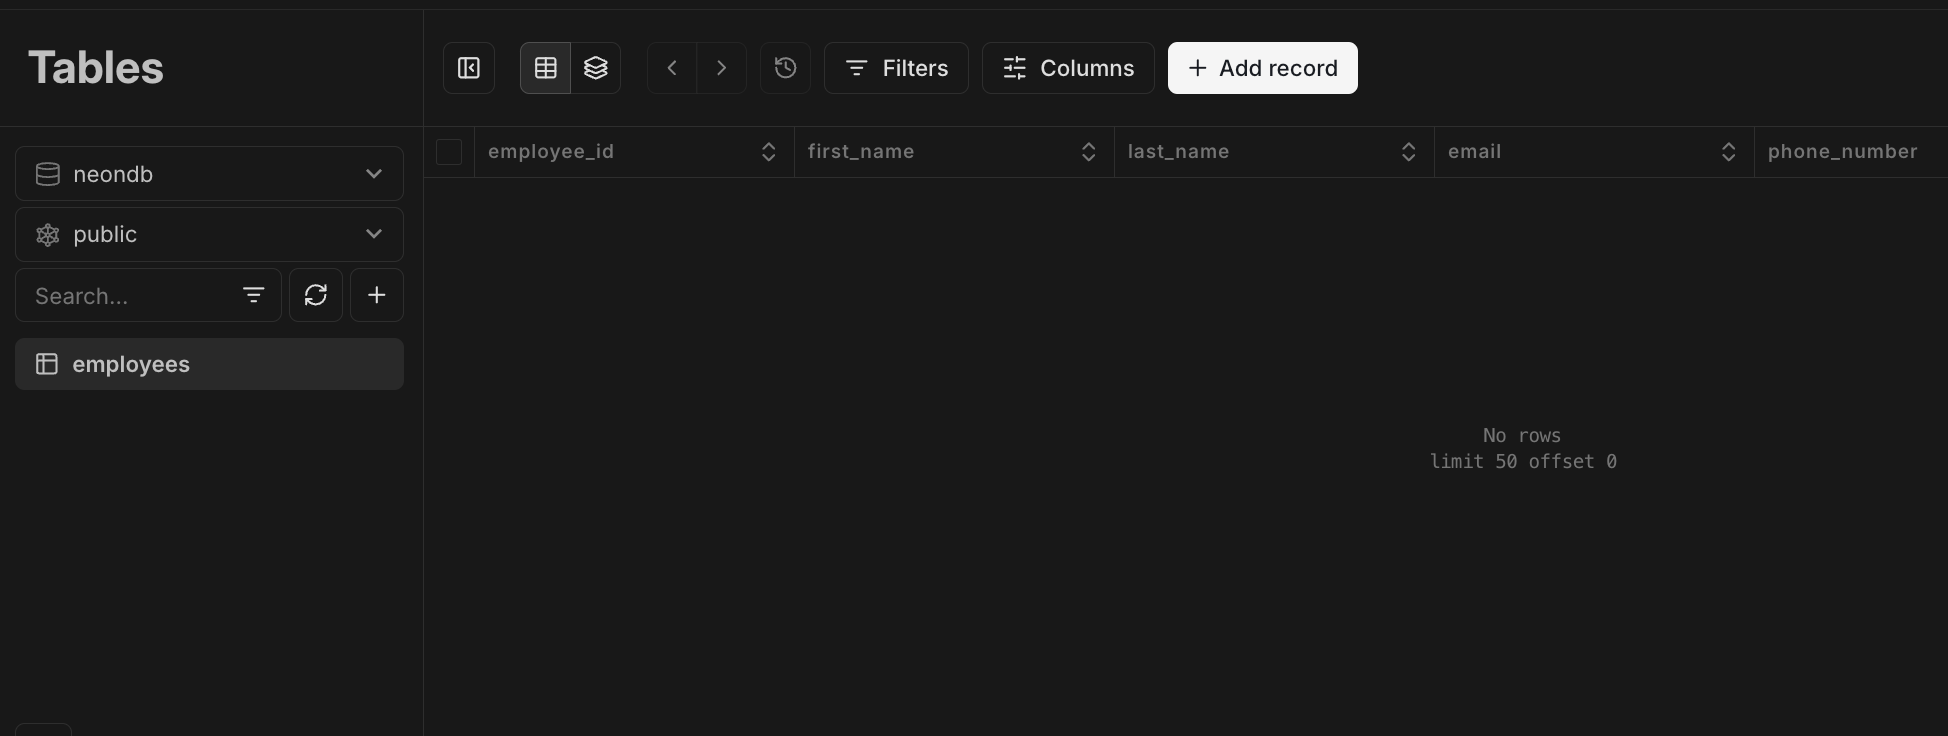
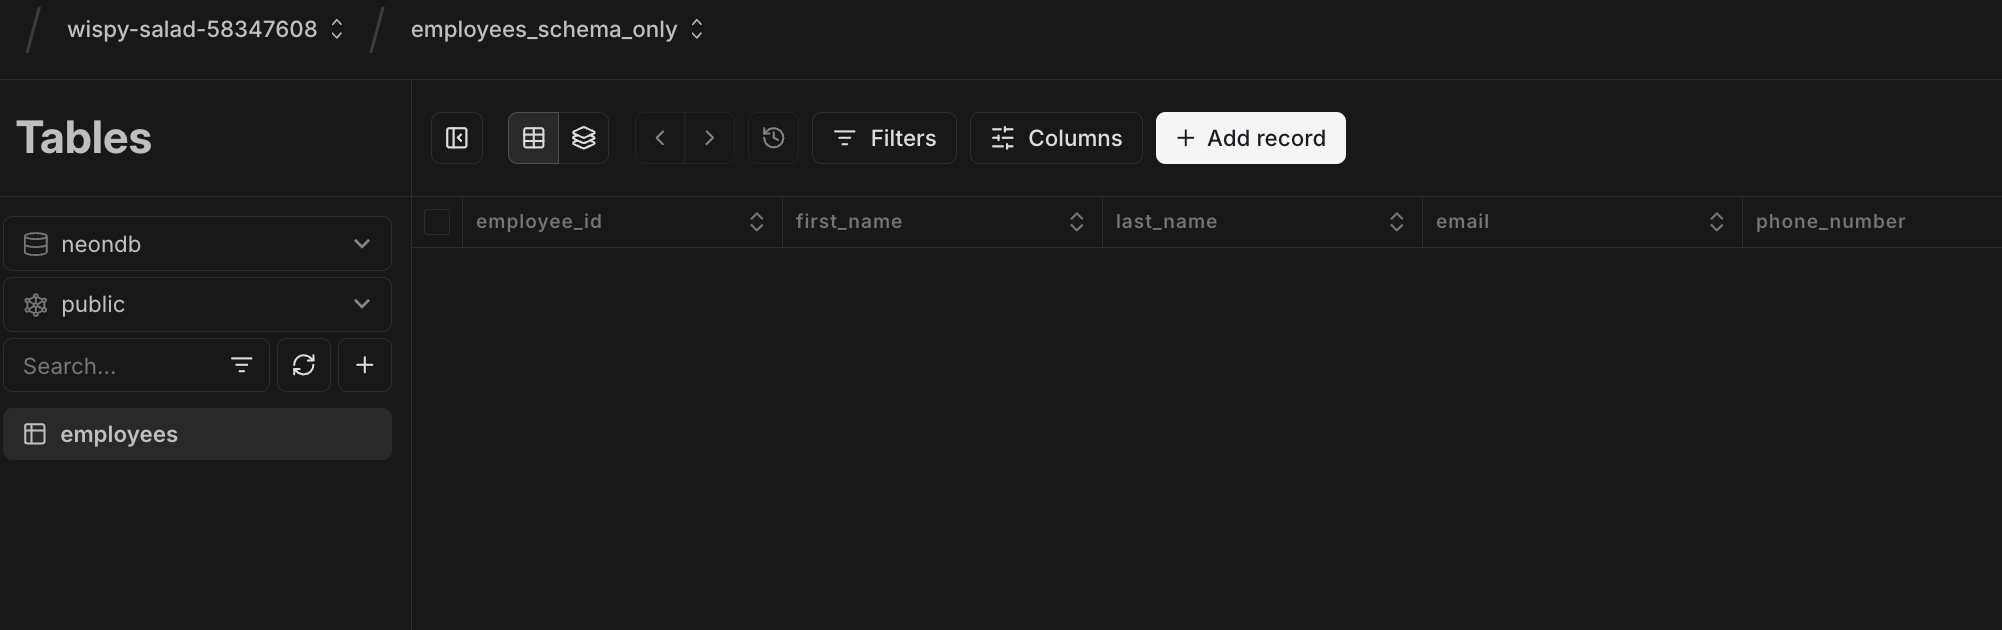
docs: revisions

diff --git a/content/docs/guides/branching-schema-only.md b/content/docs/guides/branching-schema-only.md
@@ -7,28 +7,62 @@ updatedOn: '2025-01-10T00:37:35.161Z'
 
 <EarlyAccess />
 
-Neon's "schema-only branches" feature lets you create database branches that copy only the database schema from a specified branch—without copying any data. This feature is useful when working with datasets containing sensitive information. By working with schema-only branches, you can replicate your database structure without exposing confidential data, giving your team a safe, compliant way to build and test.
+The schema-only branches feature lets you create database branches that copy only the database schema from a specified source branch — without copying any data. This feature is useful when working with databases containing sensitive information. With schema-only branches, you can replicate your database structure without exposing confidential data, giving your team a safe, compliant way to build and test.
 
 ## Creating schema-only branches
 
-<Admonition type="note">
-Schema-only branching is currently supported in the Neon Console only. CLI and API support are planned for a future release.
-</Admonition>
+You can create schema only branches in the Neon Console or using the Neon API, in much the same way you create any Neon branch.
 
-You can create schema only branches in the Neon Console, in much the same way you create any Neon branch.
+<Tabs labels={["Neon Console", "API"]}>
 
-1. In the Neon Console, select your project.
+<TabItem>
+To create a schema-only branch from the Neon Console:
+
+1. In the console, select your project.
 2. Select **Branches**.
 3. Click **Create branch** to open the branch creation dialog.
    ![Create branch dialog](/docs/manage/create_branch.png)
 4. For **Type**, select **Schema-only**.
 4. Enter a name for the branch.
-5. In the **From Branch** field, select the source branch. The schema from this branch will be copied to your new branch. 
+5. In the **From Branch** field, select the source branch. The schema from this source branch will be copied to your new schema-only branch. 
 6. Click **Create new branch**.
+</TabItem>
+
+<TabItem>
+To create a schema-only branch from the Neon Console, use the [Create branch](https://api-docs.neon.tech/reference/createprojectbranch) endpoint with the `init_source` option set to `schema`, as shown below. Required values include:
+- Your Neon `project_id`
+- The `parent_id`, which is the branch ID of the branch containing the schema you want to copy
+
+```bash
+curl --request POST \
+     --url https://console.neon.tech/api/v2/projects/wispy-salad-58347608/branches \
+     --header 'accept: application/json' \
+     --header 'authorization: Bearer $NEON_API_KEY' \
+     --header 'content-type: application/json' \
+     --data '
+{
+  "branch": {
+    "parent_id": "br-super-mode-w371g4od",
+    "name": "my_schema_only_branch",
+    "init_source": "schema"
+  }
+}
+'
+```
+</TabItem>
+
+</Tabs>
+
+
+
+
+
 
 ## Schema-only branching example
 
-1. To try out schema-only branches, you can start by creating  an `employees` table on your Neon project's `main` branch, and adding some dummy Personally Identifiable Information (PII). You can do this from the [Neon SQL Editor](/docs/get-started-with-neon/query-with-neon-sql-editor) or any SQL client by copying and pasting the following statements:
+To try out schema-only branches:
+
+1. Start by creating  an `employees` table on your Neon project's `main` branch and adding some dummy data. You can do this from the [Neon SQL Editor](/docs/get-started-with-neon/query-with-neon-sql-editor) or any SQL client by copying and pasting the following statements:
 
     ```sql
     CREATE TABLE employees (
@@ -55,13 +89,13 @@ You can create schema only branches in the Neon Console, in much the same way yo
     ('Hannah', 'Martin', 'hannah.martin@example.com', '888-777-6666', 'Backend Developer', 92000.00, '2019-07-23');
     ```
 
-2. Take a look at your the `employees` table on the `main` branch. Navigate to the **Tables** page in the Neon Console, and select your `main` branch from the bread-crumb menu at the top of the window. Your `employees` table should have both schema and data, as shown here:
+2. Navigate to the **Tables** page in the Neon Console, and select your `main` branch from the bread-crumb menu at the top of the window. Your `employees` table should have both schema and data, as shown here:
 
     ![main branch with schema and data](/docs/guides/schema-data-branch.png)
 
 3. Create a schema-only branch following the schema-only branch creation instructions above. See [Creating schema-only branches](#creating-schema-only-branches). In this example, we've named the branch `employees_schema_only`. 
 
-4. Next, on the **Tables** page again, select your newly created schema-only branch (`employees_schema_only`) from the bread-crumb menu at the top of the window. You can see that the schema-only branch contains the schema, but no data. The same would be true for any user-created table in the database.
+4. On the **Tables** page, select your newly created `employees_schema_only` branch from the bread-crumb menu at the top of the window. You can see that the schema-only branch contains the schema, but no data. The same would be true for any table in any database on this branch.
 
     ![schema-only branch with only the schema](/docs/guides/schema-only-branch.png)
 
